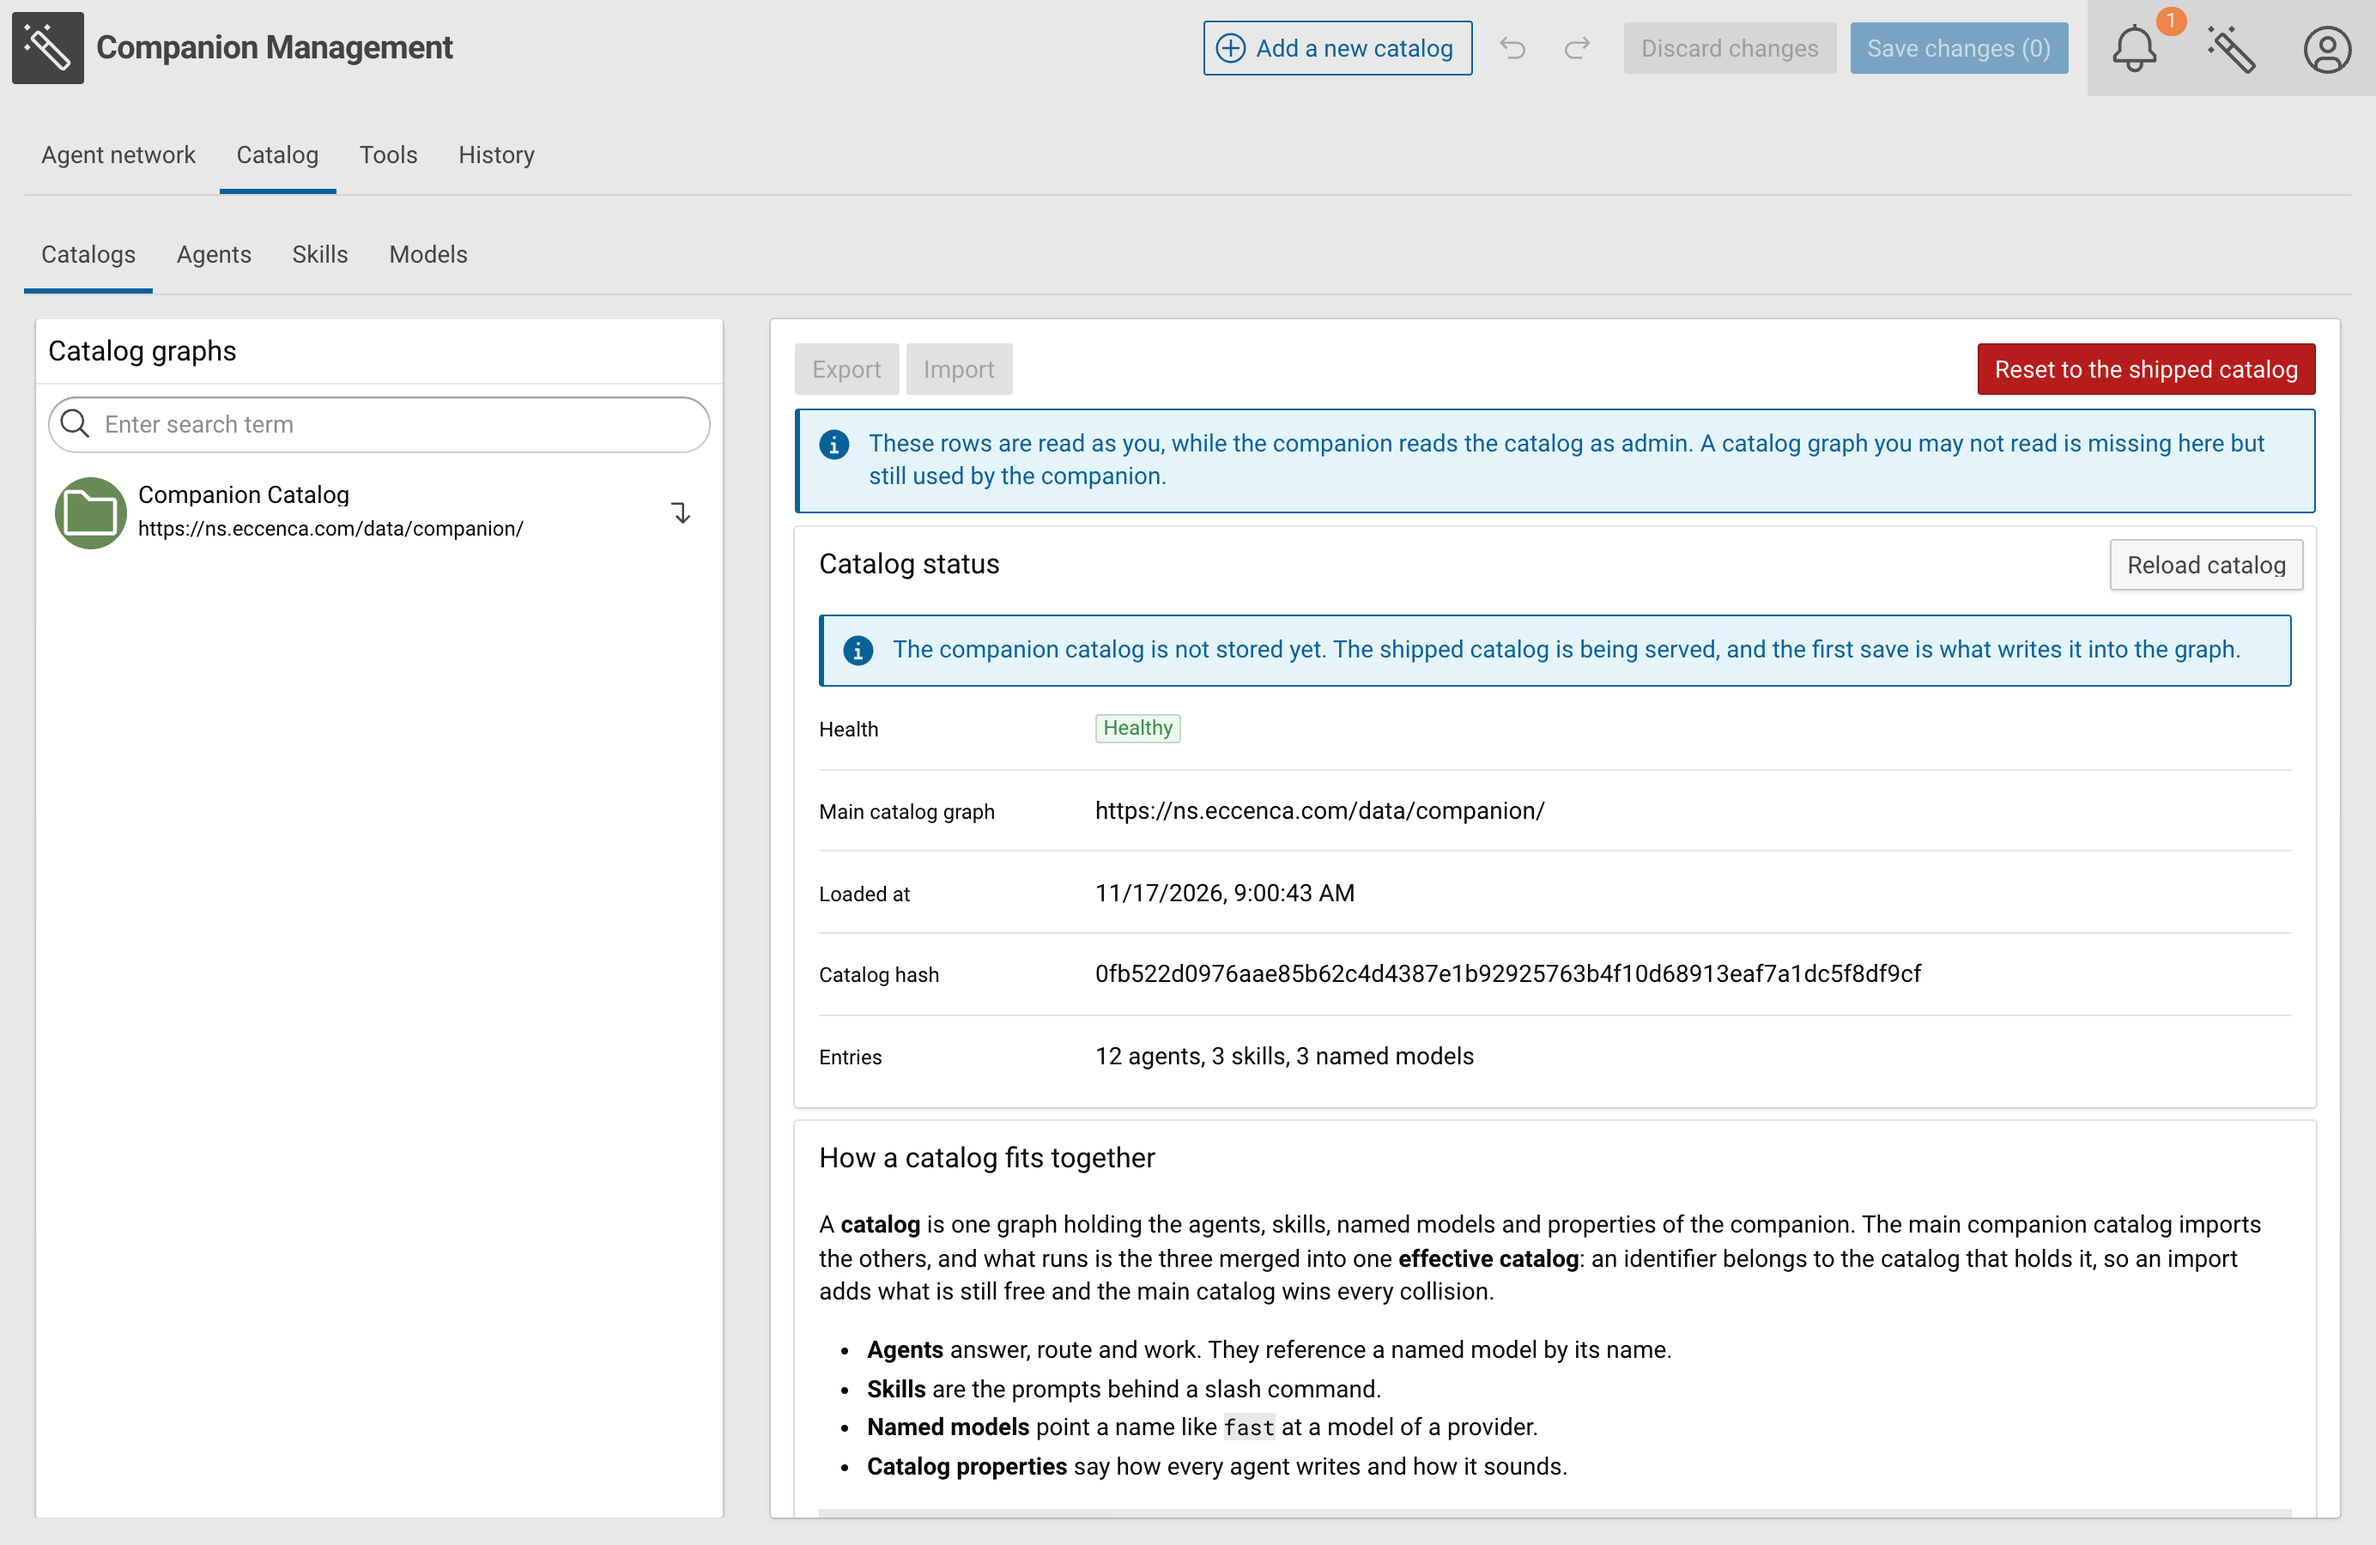
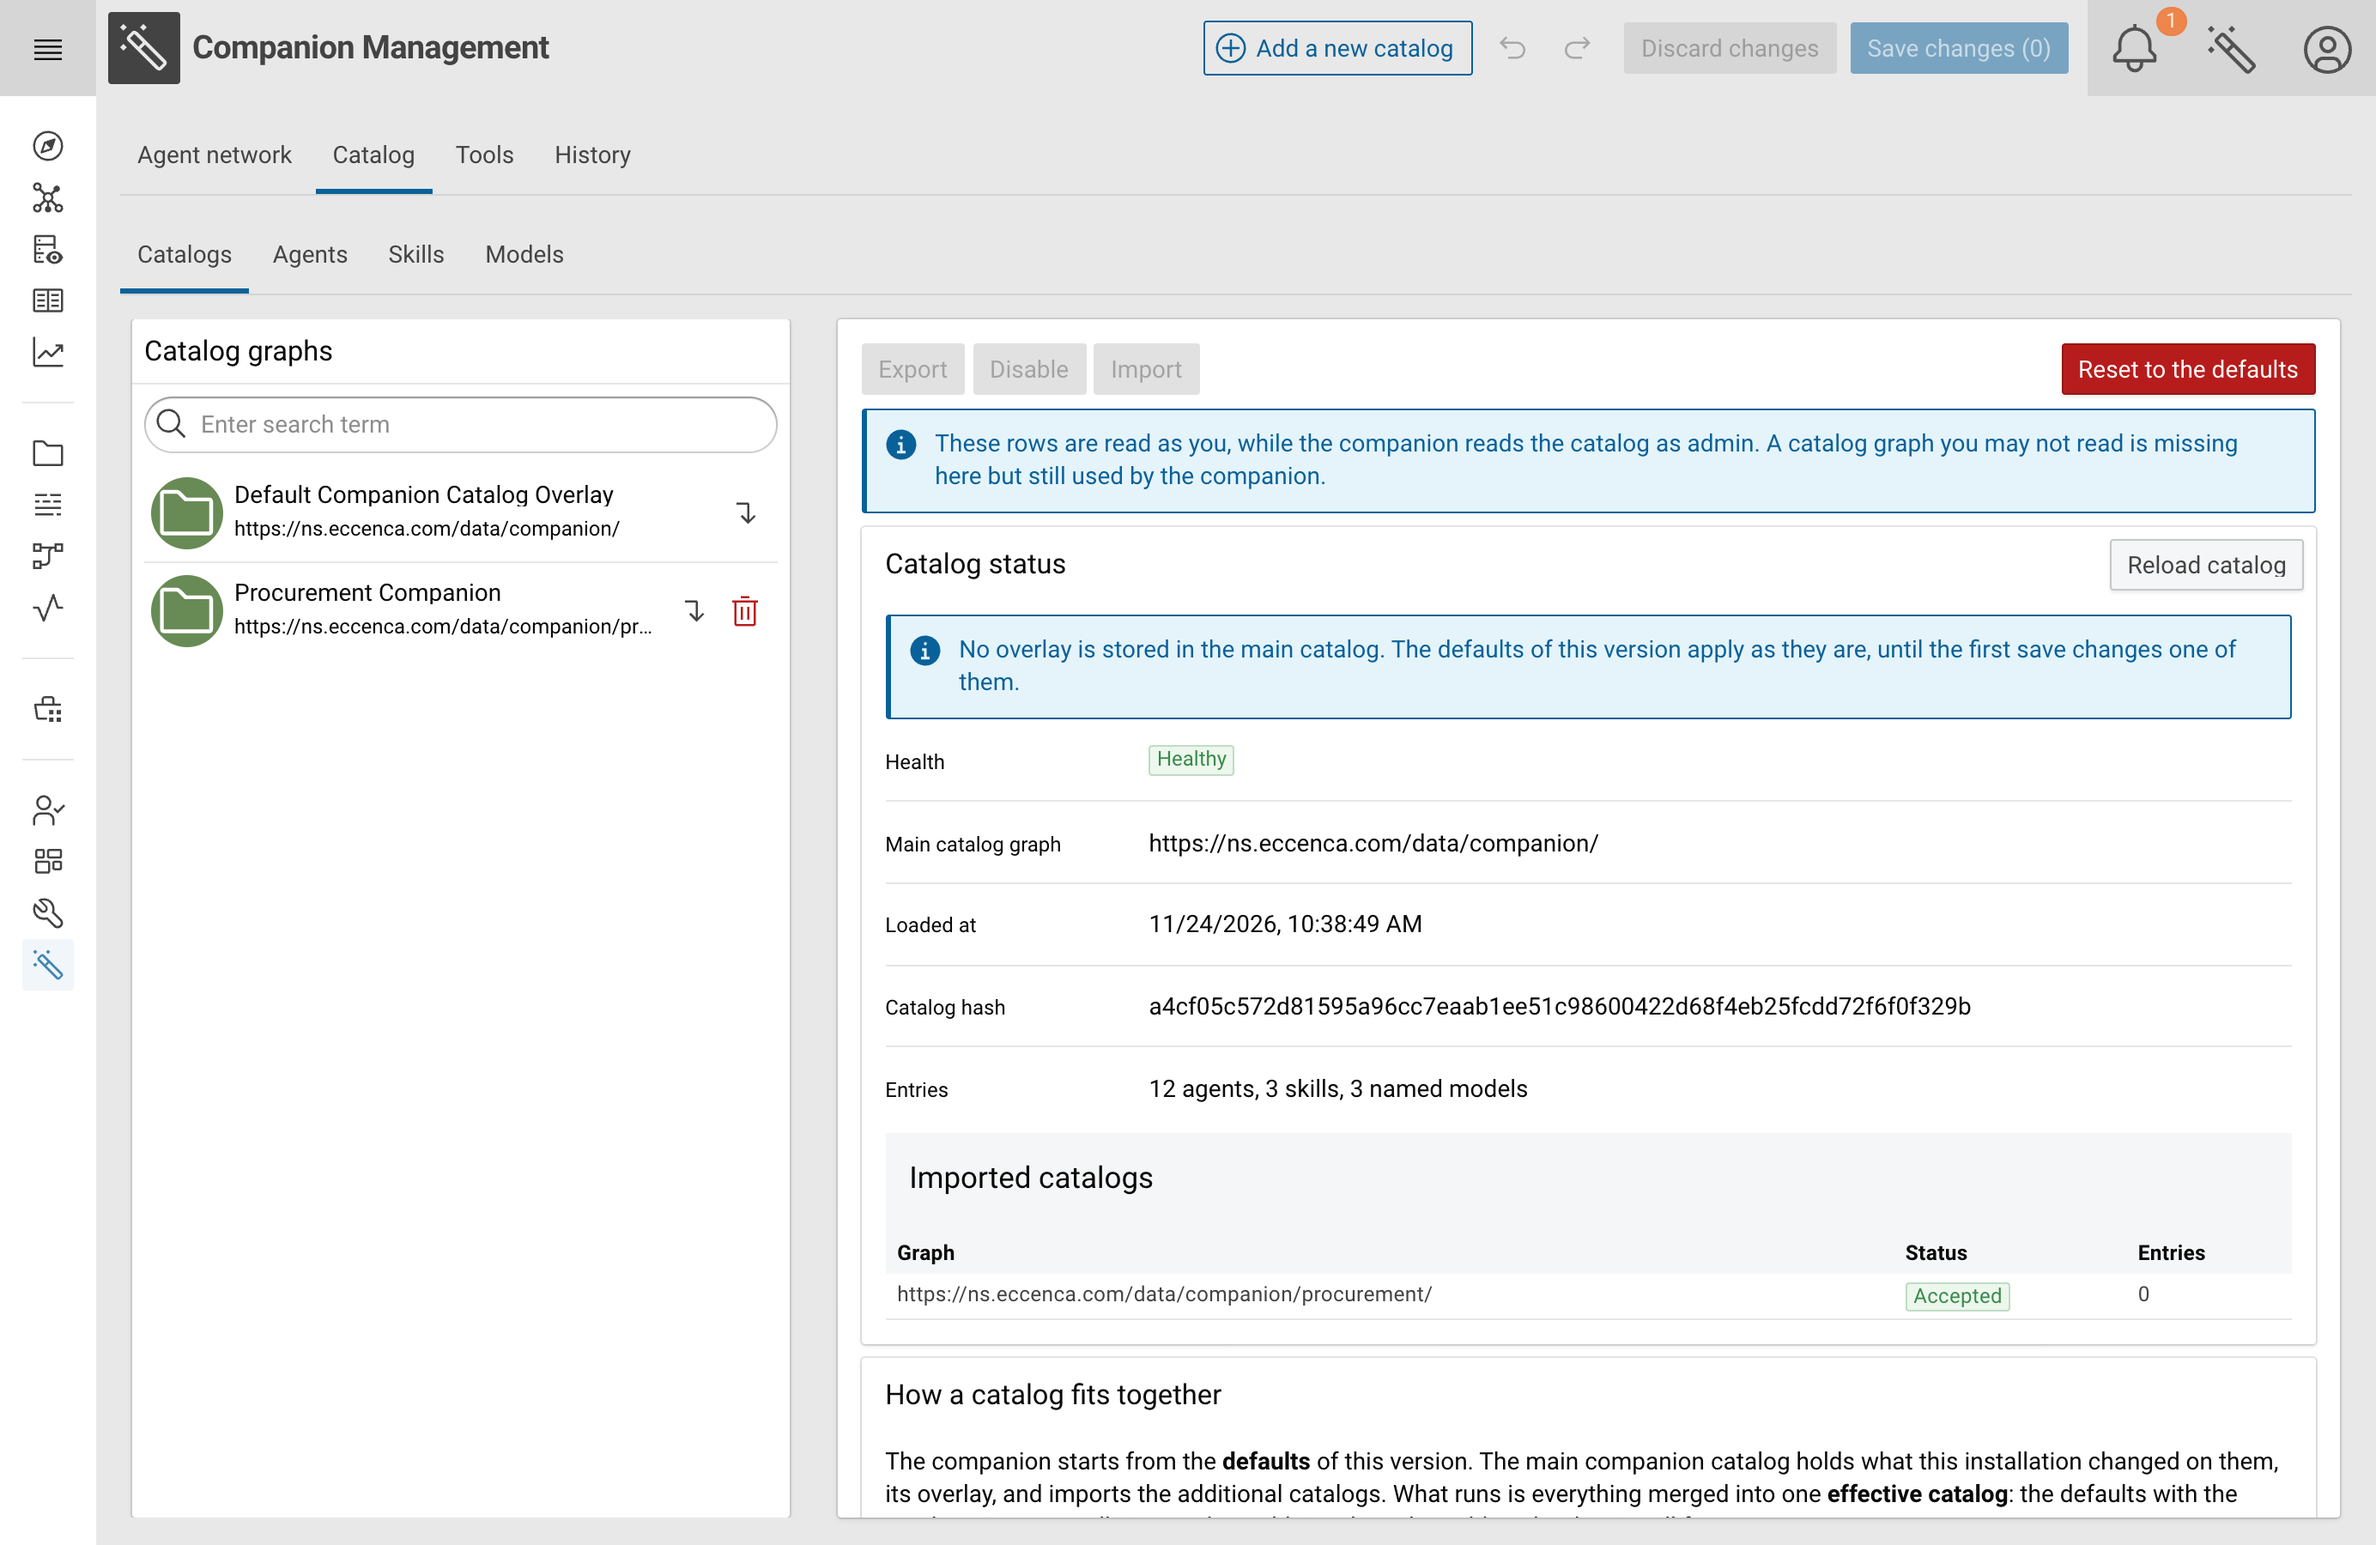
update the Catalogs tab of Companion Management, CMEM-8459
The section named a button that no longer exists and missed three
actions of the tab.

- rename Reset to the shipped catalog to Reset to the defaults
- document Delete this catalog graph, Disable/Enable and Open the
  agents of this catalog
- describe the details of an imported catalog, replace the screenshot

Verified against CMEM v26.2.3-354 (Explore release_26.3.0).

diff --git a/docs/explore-and-author/companion/management/index.md b/docs/explore-and-author/companion/management/index.md
@@ -60,18 +60,21 @@ The **Catalog** tab holds the entries of the catalog in four tabs:
 Each tab lists the entries on the left and shows the selected entry on the right.
 Enter a search term above the list to filter it.
 
-![Catalogs tab of Companion Management with the catalog status](companion-management-catalog.png){ class="bordered" }
+![Catalogs tab of Companion Management with the catalog status of the main catalog and the imported catalog Procurement Companion](companion-management-catalog.png){ class="bordered" }
 
 ### Catalogs
 
-The **Catalog graphs** list shows the main catalog graph and the catalog graphs it imports.
-Select a catalog graph to see its **Catalog status**:
+The **Catalog graphs** list shows the main catalog graph `Default Companion Catalog Overlay` and the catalog graphs it imports.
+Select the main catalog graph to see its **Catalog status**:
 
 - **Health** of the catalog, for example `Healthy`
 - **Main catalog graph**
 - **Loaded at**, the time the catalog was last loaded
 - **Catalog hash**
 - **Entries**, the number of agents, skills and named models
+- **Imported catalogs**, with the graph, the status and the number of entries of each imported catalog
+
+Select an imported catalog graph to see its **Graph**, **Label in the graph**, **Imports**, **Hash the companion computed**, **Entries the companion read** and **Stored JSON**.
 
 The list contains only the catalog graphs that the current user can read.
 The Companion reads the catalog as administrator, so it also uses catalog graphs that are missing from the list.
@@ -80,13 +83,27 @@ The following actions apply to the selected catalog graph:
 
 - Click **Export** to download the catalog.
 - Click **Import** to load a catalog from a file.
+- Click **Disable** to stop importing a catalog graph into the main catalog.
+    The Companion no longer uses its agents, skills and named models, and the catalog graph is marked `disabled`.
+    Click **Enable** to import it again.
+    Both take effect immediately, without **Save changes**.
 - Click **Reload catalog** to load the catalog from the graph again.
-- Click **Add a new catalog** in the header to add a catalog graph.
+
+The following actions apply to a catalog graph in the list:
+
+- Click **Open the agents of this catalog** to open the **Agents** tab with the catalog graph selected.
+- Click :eccenca-item-remove: **Delete this catalog graph** to delete an added catalog graph, then confirm with **Delete**.
+    The graph is deleted and the main catalog no longer imports it.
+    This cannot be undone.
+    The main catalog graph cannot be deleted.
+
+Click **Add a new catalog** in the header to add a catalog graph.
 
 !!! warning
 
-    **Reset to the shipped catalog** replaces the catalog with the catalog shipped with Corporate Memory.
-    Changes made to agents, skills and named models are lost.
+    **Reset to the defaults** removes the overlay stored in the main catalog graph, so the defaults of the installed version apply again.
+    Agents, skills and named models changed or added in the main catalog are lost.
+    Imported catalog graphs are kept.
 
 ### Agents
 
